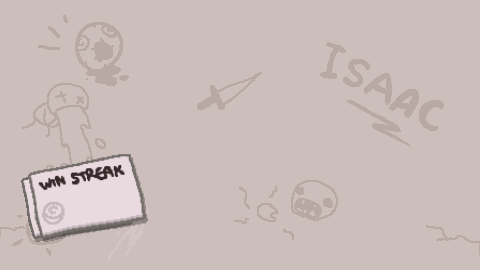
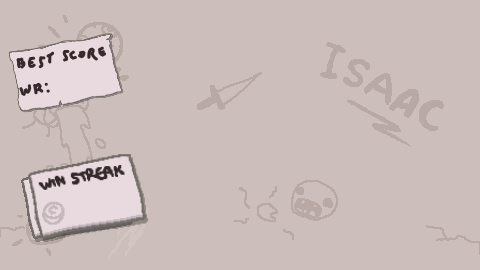
Добавил стату и БД

Changed region(s): [[0.0, 0.1185, 0.2812, 0.4148]]

diff --git a/src/modules/mainmenu/startscrean.py b/src/modules/mainmenu/startscrean.py
@@ -2,7 +2,9 @@ import sys
 import pygame
 import src.consts
 import pygame as pg
-from src.utils.funcs import load_image
+
+from src.modules.Banners.BaseFont import BaseFont
+from src.utils.funcs import load_image, select_from_db
 
 WIDTH, HEIGHT = src.consts.WIDTH, src.consts.HEIGHT
 
@@ -23,6 +25,19 @@ class MenuSprite(pygame.sprite.Sprite):
 def terminate():
     pygame.quit()
     sys.exit()
+
+
+def streak(lst):
+    a = lst[-1]
+    st = ''
+    for i in range(1, len(lst) + 1):
+        if lst[-i] == a:
+            st += lst[-i]
+        else:
+            break
+    if 'l' in st:
+        return f'-{len(st)}'
+    return f'{len(st)}'
 
 
 def start_screen(screen):
@@ -108,6 +123,11 @@ def return_cheack(j: int, i: int):
         return None
 
 
+def wr(lst):
+    win = lst.count('w')
+    return int(win / len(lst) * 100)
+
+
 # Возвращает имя персонажа (допилить возврат управления)
 def choise_menu(screen):
     fon = pygame.transform.scale(load_image('images/menu/choise_fon.png'), (WIDTH, HEIGHT))
@@ -138,8 +158,23 @@ def choise_menu(screen):
     MenuSprite(load_image(list_hero[0], -1), 610, 450, 80, 90, hero_choise_sprites)
     MenuSprite(load_image(list_hero[1], -1), 510, 360, 80, 90, hero_choise_sprites)
     MenuSprite(load_image(list_hero[2], -1), 710, 360, 80, 90, hero_choise_sprites)
-    i = 0
-    j = 0
+
+    font = streak([i[1] for i in select_from_db()])
+    streak_text = BaseFont("fonts/upheaval_black.png", "abcdifghijklmnopqrstyvwxyz0123456789$%э=?+-_",
+                           26, 2, total=44, scale_sizes=(50, 50))
+    font = streak_text.write_text(f'{font}')
+
+    score_max = max(list(map(int, [i[2] for i in select_from_db()])))
+    score_text = BaseFont("fonts/upheaval_black.png", "abcdifghijklmnopqrstyvwxyz0123456789$%э=?+-_",
+                          26, 2, total=44, scale_sizes=(30, 40))
+    score_max = score_text.write_text(f'{score_max}')
+
+    win_rate = wr([i[1] for i in select_from_db()])
+    wr_text = BaseFont("fonts/upheaval_black.png", "abcdifghijklmnopqrstyvwxyz0123456789$%э=?+-_",
+                       26, 2, total=44, scale_sizes=(40, 40))
+    win_rate = wr_text.write_text(f'{win_rate}%')
+
+    i, j = 0, 0
     f = f'isaac.draw(screen)'
     f1 = f'new.draw(screen)'
 
@@ -156,6 +191,7 @@ def choise_menu(screen):
                     list_hero = list_hero[1:] + list_hero[:1]
                     create_sprite(list_hero, hero_choise_sprites)
                     hero_choise_sprites.draw(screen)
+
                 elif event.key == pygame.K_RIGHT:
                     i -= 1
                     hero_choise_sprites = pygame.sprite.Group()
@@ -164,12 +200,15 @@ def choise_menu(screen):
                     list_hero = list_hero[-1:] + list_hero[:-1]
                     create_sprite(list_hero, hero_choise_sprites)
                     hero_choise_sprites.draw(screen)
+
                 elif event.key == pygame.K_DOWN:
                     j += 1
                     f1 = draw_menu(j)
+
                 elif event.key == pygame.K_UP:
                     j -= 1
                     f1 = draw_menu(j)
+
                 elif event.key == pygame.K_RETURN:
                     if return_cheack(j, i) is not None:
                         return return_cheack(j, i)
@@ -181,4 +220,9 @@ def choise_menu(screen):
             hero_choise_sprites.draw(screen)
             eval(f)
             eval(f1)
+            screen.blit(score_max, (60, 245))
+
+            screen.blit(win_rate, (150, 290))
+
+            screen.blit(font, (200, 680))
             pygame.display.flip()

diff --git a/src/utils/funcs.py b/src/utils/funcs.py
@@ -2,7 +2,7 @@ import os
 from functools import cache
 
 import pygame as pg
-
+import sqlite3
 from src.consts import WALL_SIZE, GAME_WIDTH, CELL_SIZE, GAME_HEIGHT, Moves
 
 
@@ -240,8 +240,8 @@ def get_direction(second_rect: pg.Rect, first_rect: pg.Rect):
             ) and
             not first_rect.collidepoint(second_rect.midtop) and
             (
-            not first_rect.collidepoint(second_rect.topleft) or
-            not first_rect.collidepoint(second_rect.topright)
+                    not first_rect.collidepoint(second_rect.topleft) or
+                    not first_rect.collidepoint(second_rect.topright)
             )
     ):
         return Moves.DOWN
@@ -249,13 +249,13 @@ def get_direction(second_rect: pg.Rect, first_rect: pg.Rect):
     if (
             first_rect.collidepoint(second_rect.midtop) and
             (
-            first_rect.collidepoint(second_rect.topleft) or
-            first_rect.collidepoint(second_rect.topright)
+                    first_rect.collidepoint(second_rect.topleft) or
+                    first_rect.collidepoint(second_rect.topright)
             ) and
             not first_rect.collidepoint(second_rect.midbottom) and
             (
-            not first_rect.collidepoint(second_rect.bottomleft) or
-            not first_rect.collidepoint(second_rect.bottomright)
+                    not first_rect.collidepoint(second_rect.bottomleft) or
+                    not first_rect.collidepoint(second_rect.bottomright)
             )
     ):
         return Moves.UP
@@ -273,3 +273,27 @@ def get_direction(second_rect: pg.Rect, first_rect: pg.Rect):
 
     if second_rect.collidepoint(first_rect.bottomright):
         return Moves.BOTTOMRIGHT
+
+
+def create_data_base():
+    con = sqlite3.connect('src/data/data_base/stats.sqlite')
+    con.execute("""
+            CREATE TABLE IF NOT EXISTS game_over(
+            id INTEGER PRIMARY KEY AUTOINCREMENT,
+            win_or_loose STRING,
+            score INT);
+            """)
+
+
+def add_db(win_or_loose, score):  # добавление данных в дб
+    con = sqlite3.connect('src/data/data_base/stats.sqlite')
+    cur = con.cursor()
+    ins = f"""INSERT INTO game_over (win_or_loose, score) VALUES ('{win_or_loose}', {score})"""
+    cur.execute(ins)
+    con.commit()
+
+def select_from_db():
+    con = sqlite3.connect('src/data/data_base/stats.sqlite')
+    cur = con.cursor()
+    res = cur.execute(f"""SELECT * FROM game_over""").fetchall()
+    return res

diff --git a/src/modules/Game.py b/src/modules/Game.py
@@ -1,7 +1,7 @@
 import pygame as pg
 
 from src.modules.mainmenu import startscrean
-from src.utils.funcs import load_sound, load_image
+from src.utils.funcs import load_sound, load_image, create_data_base
 
 from src.modules.Banners.end_screen import end_screen
 from src.modules.Banners.pause import pause
@@ -28,7 +28,7 @@ def start_game(main_screen):
 # Заглушка (переделать!)
 class Game(BaseGame):
     def __init__(self, name: str, main_screen: pg.Surface, fps: int = 60):
-
+        create_data_base()
         self.name_hero = name
         self.main_hero = Player(name, 10, 4, 10, 2, 5, 5, 0.5)
 
@@ -60,7 +60,7 @@ class Game(BaseGame):
             self.register_event(event, self.update_stats)
 
     def end_screen(self, event: pg.event.Event):
-        if end_screen(self.main_screen, self.name_hero):
+        if end_screen(self.main_screen, self.name_hero, self.main_hero.score):
             self.running = False
 
     def switch_pause(self, event: pg.event.Event):

diff --git a/src/modules/Banners/win.py b/src/modules/Banners/win.py
@@ -9,7 +9,7 @@ from src.modules.Banners.ShopFont import ShopFont
 from src.modules.mainmenu import startscrean
 
 from src.modules.mainmenu.startscrean import MenuSprite, terminate
-from src.utils.funcs import load_image
+from src.utils.funcs import load_image, add_db
 
 WIDTH, HEIGHT = src.consts.WIDTH, src.consts.HEIGHT
 
@@ -30,6 +30,8 @@ def win(screen, score=1000):
         for event in pygame.event.get():
             if event.type == pygame.KEYDOWN:
                 if event.key == pg.K_ESCAPE:
+                    add_db('w', score)
                     terminate()
                 if event.key == pg.K_SPACE or event.key == pg.K_RETURN:
+                    add_db('w', score)
                     return True

diff --git a/src/modules/Banners/end_screen.py b/src/modules/Banners/end_screen.py
@@ -7,7 +7,7 @@ import random
 
 from src.modules.Banners.ShopFont import ShopFont
 from src.modules.mainmenu.startscrean import MenuSprite
-from src.utils.funcs import load_image
+from src.utils.funcs import load_image, add_db
 
 WIDTH, HEIGHT = src.consts.WIDTH, src.consts.HEIGHT
 
@@ -36,6 +36,8 @@ def end_screen(screen, hero, score=1000):
         for event in pygame.event.get():
             if event.type == pygame.KEYDOWN:
                 if event.key == pg.K_ESCAPE:
+                    add_db('l', score)
                     terminate()
                 if event.key == pg.K_SPACE or event.key == pg.K_RETURN:
+                    add_db('l', score)
                     return True
